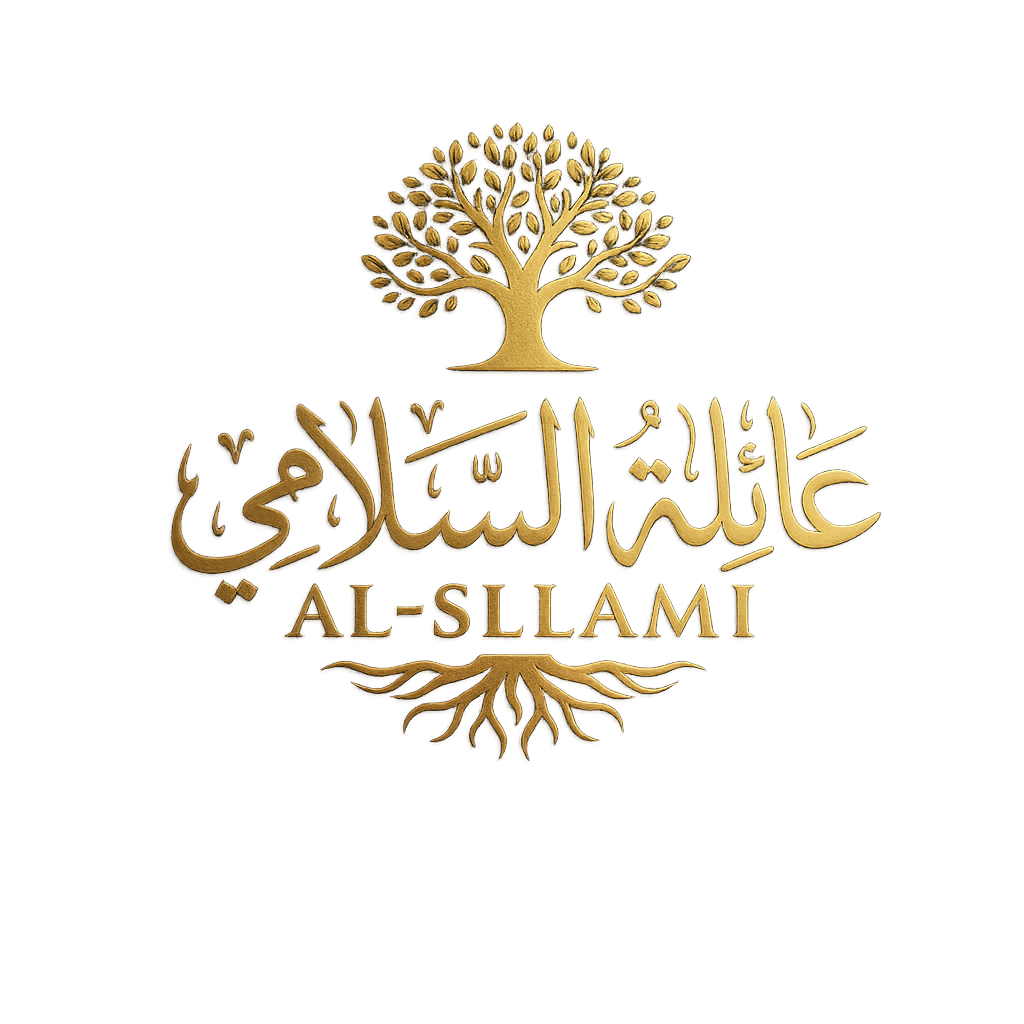
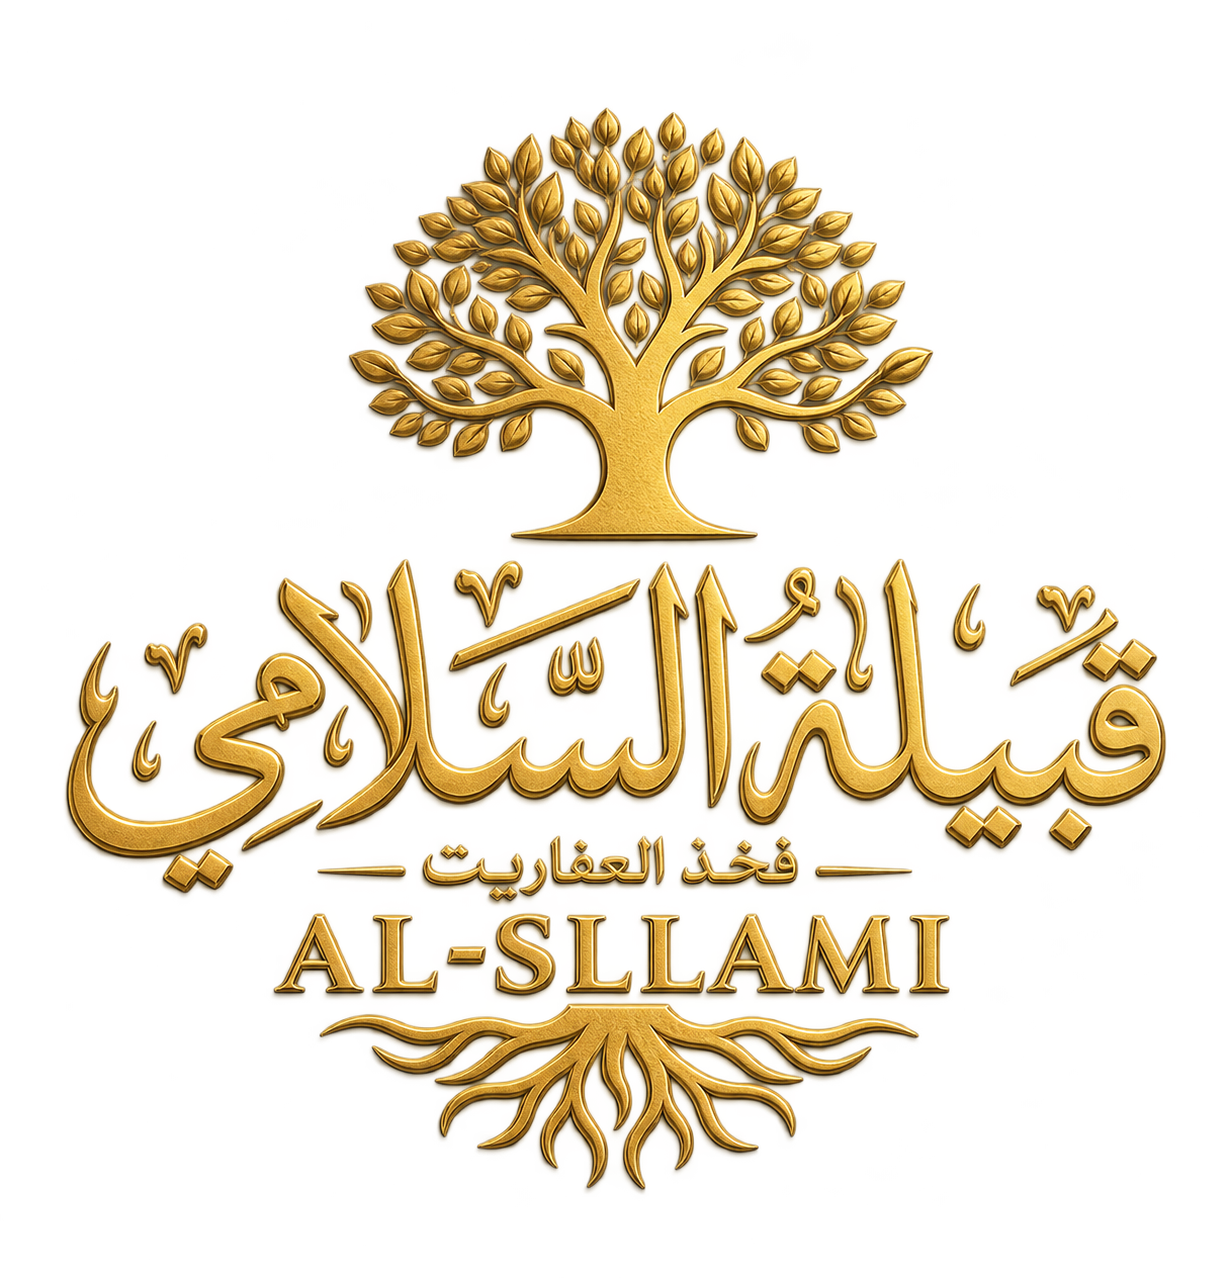
استبدال شعار الموقع الجديد (قبيلة السلامي) في كل الاستخدامات
- src/assets/logo.png: الشعار المعروض بالصفحة الرئيسية والهيدر والفوتر
- public/og-image.png: صورة معاينة الرابط عند مشاركة الموقع (واتساب وغيره)
- أيقونة التبويب (favicon): استُبدلت أيقونة عامة غير مرتبطة بالهوية بأيقونة
  الشجرة الذهبية مقتصّة من الشعار الجديد (32px/512px + apple-touch-icon)
- عنوان الصفحة ووسوم Open Graph المتبقية بـ"عائلة السلامي" حُدِّثت لـ"قبيلة"

Changed region(s): [[0.0312, 0.0625, 0.9688, 0.9375]]

diff --git a/index.html b/index.html
@@ -2,15 +2,17 @@
 <html lang="ar" dir="rtl">
   <head>
     <meta charset="UTF-8" />
-    <link rel="icon" type="image/svg+xml" href="/favicon.svg" />
+    <link rel="icon" type="image/png" sizes="32x32" href="/favicon-32.png" />
+    <link rel="icon" type="image/png" sizes="512x512" href="/favicon-512.png" />
+    <link rel="apple-touch-icon" href="/apple-touch-icon.png" />
     <meta name="viewport" content="width=device-width, initial-scale=1.0" />
-    <title>عائلة السلامي</title>
+    <title>قبيلة السلامي</title>
 
     <!-- وسوم Open Graph — تُظهر شعار الموقع تلقائياً ضمن بطاقة المعاينة عند مشاركة رابط الموقع عبر واتساب وغيره -->
     <!-- Open Graph tags — surface the site logo automatically in link-preview cards (WhatsApp, etc.) -->
     <meta property="og:type" content="website" />
-    <meta property="og:title" content="عائلة السلامي — الفخذ العفاريت" />
-    <meta property="og:description" content="الموقع الرسمي لعائلة السلامي" />
+    <meta property="og:title" content="قبيلة السلامي — الفخذ العفاريت" />
+    <meta property="og:description" content="الموقع الرسمي لقبيلة السلامي" />
     <meta property="og:url" content="https://malsllami.github.io/alsallami-family/" />
     <meta property="og:image" content="https://malsllami.github.io/alsallami-family/og-image.png" />
     <meta property="og:image:secure_url" content="https://malsllami.github.io/alsallami-family/og-image.png" />
